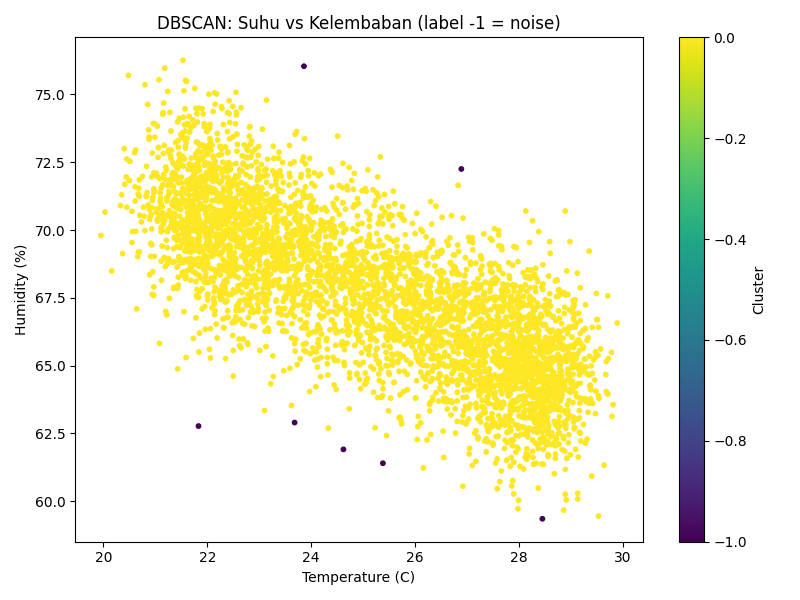
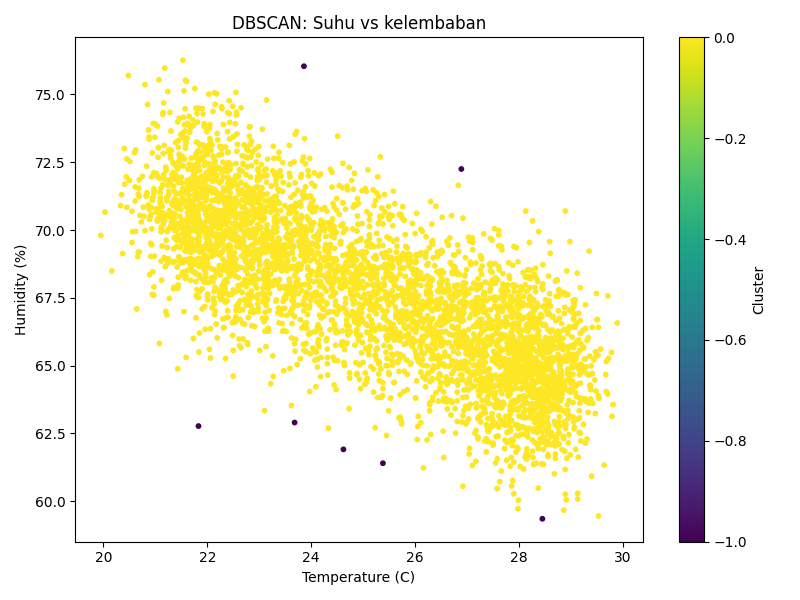
fix: samakan judul plot K-Means, DBSCAN, dan label sumbu Hands-on 2 dengan buku

Changed region(s): [[0.1875, 0.03, 0.7188, 0.06]]

diff --git a/scripts/plot_dummy_sensor.py b/scripts/plot_dummy_sensor.py
@@ -44,7 +44,7 @@ plt.figure(figsize=(10, 5))
 plt.plot(df.index, df["humidity_pct"], marker="o", color="#333333")
 plt.title("Kelembaban Ruangan")
 plt.xlabel("Waktu")
-plt.ylabel("Kelembaban (%)")
+plt.ylabel("kelembaban (%)")
 plt.xticks(rotation=45)
 plt.grid(True, linestyle="--", alpha=0.5)
 plt.tight_layout()

diff --git a/scripts/cluster_room_kmeans.py b/scripts/cluster_room_kmeans.py
@@ -72,7 +72,7 @@ def main():
       s=10,
       cmap="viridis",
   )
-  plt.title("K-Means Clustering: Suhu vs Kelembaban")
+  plt.title("K-Means Clustering: Suhu vs kelembaban")
   plt.xlabel("Temperature (C)")
   plt.ylabel("Humidity (%)")
   plt.colorbar(label="Cluster")

diff --git a/scripts/cluster_room_dbscan.py b/scripts/cluster_room_dbscan.py
@@ -56,7 +56,7 @@ def main():
       s=10,
       cmap="viridis",
   )
-  plt.title("DBSCAN: Suhu vs Kelembaban (label -1 = noise)")
+  plt.title("DBSCAN: Suhu vs kelembaban")
   plt.xlabel("Temperature (C)")
   plt.ylabel("Humidity (%)")
   plt.colorbar(label="Cluster")
